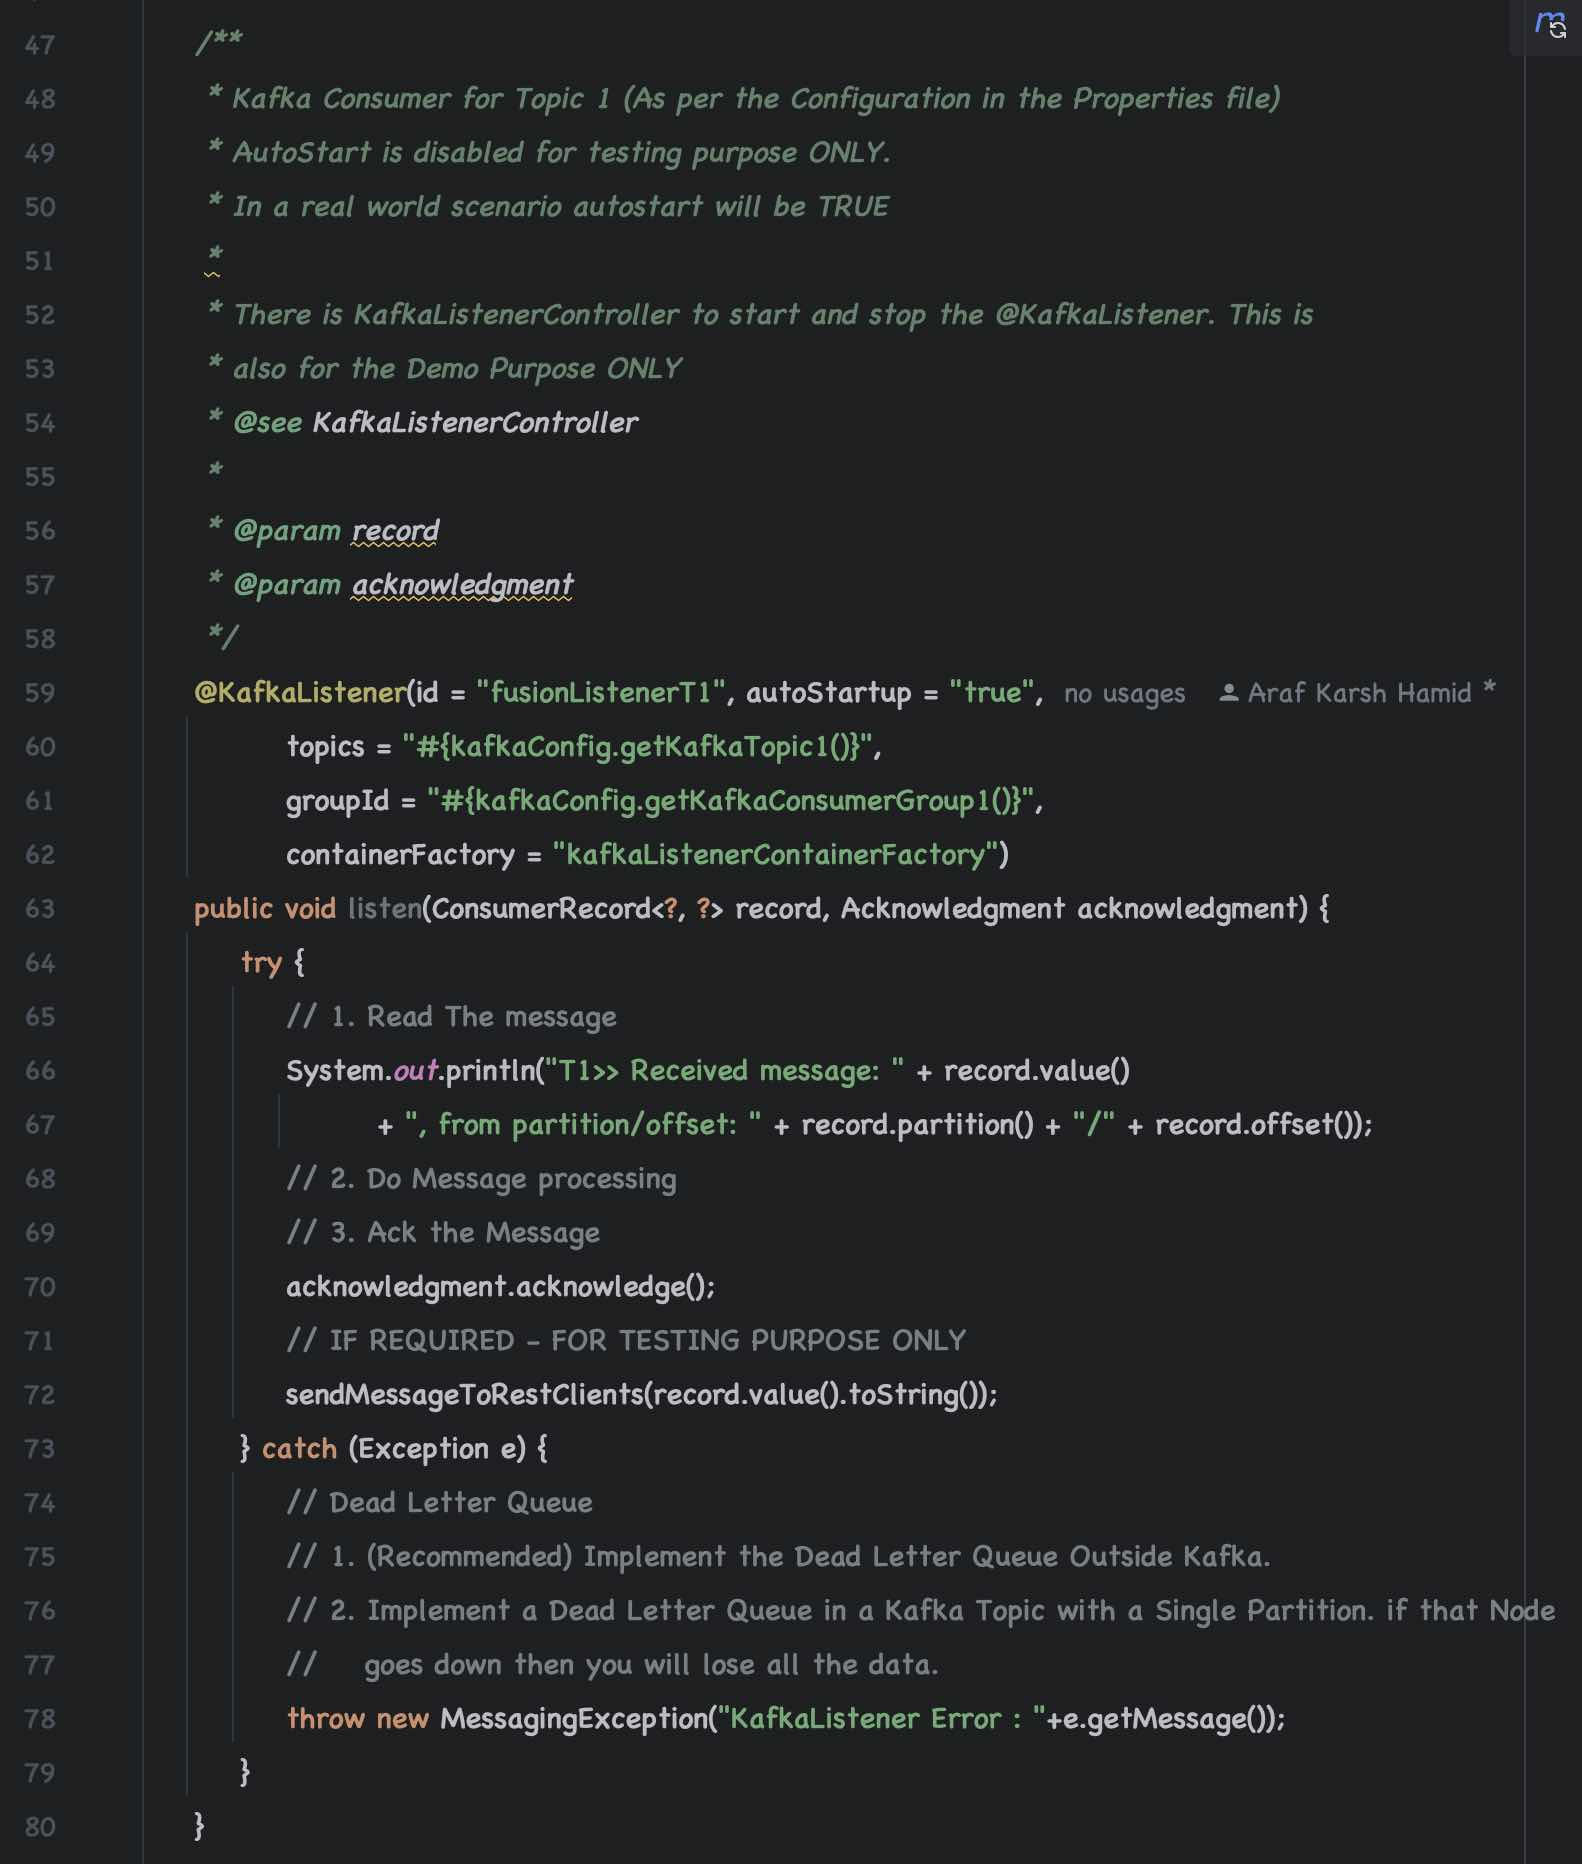
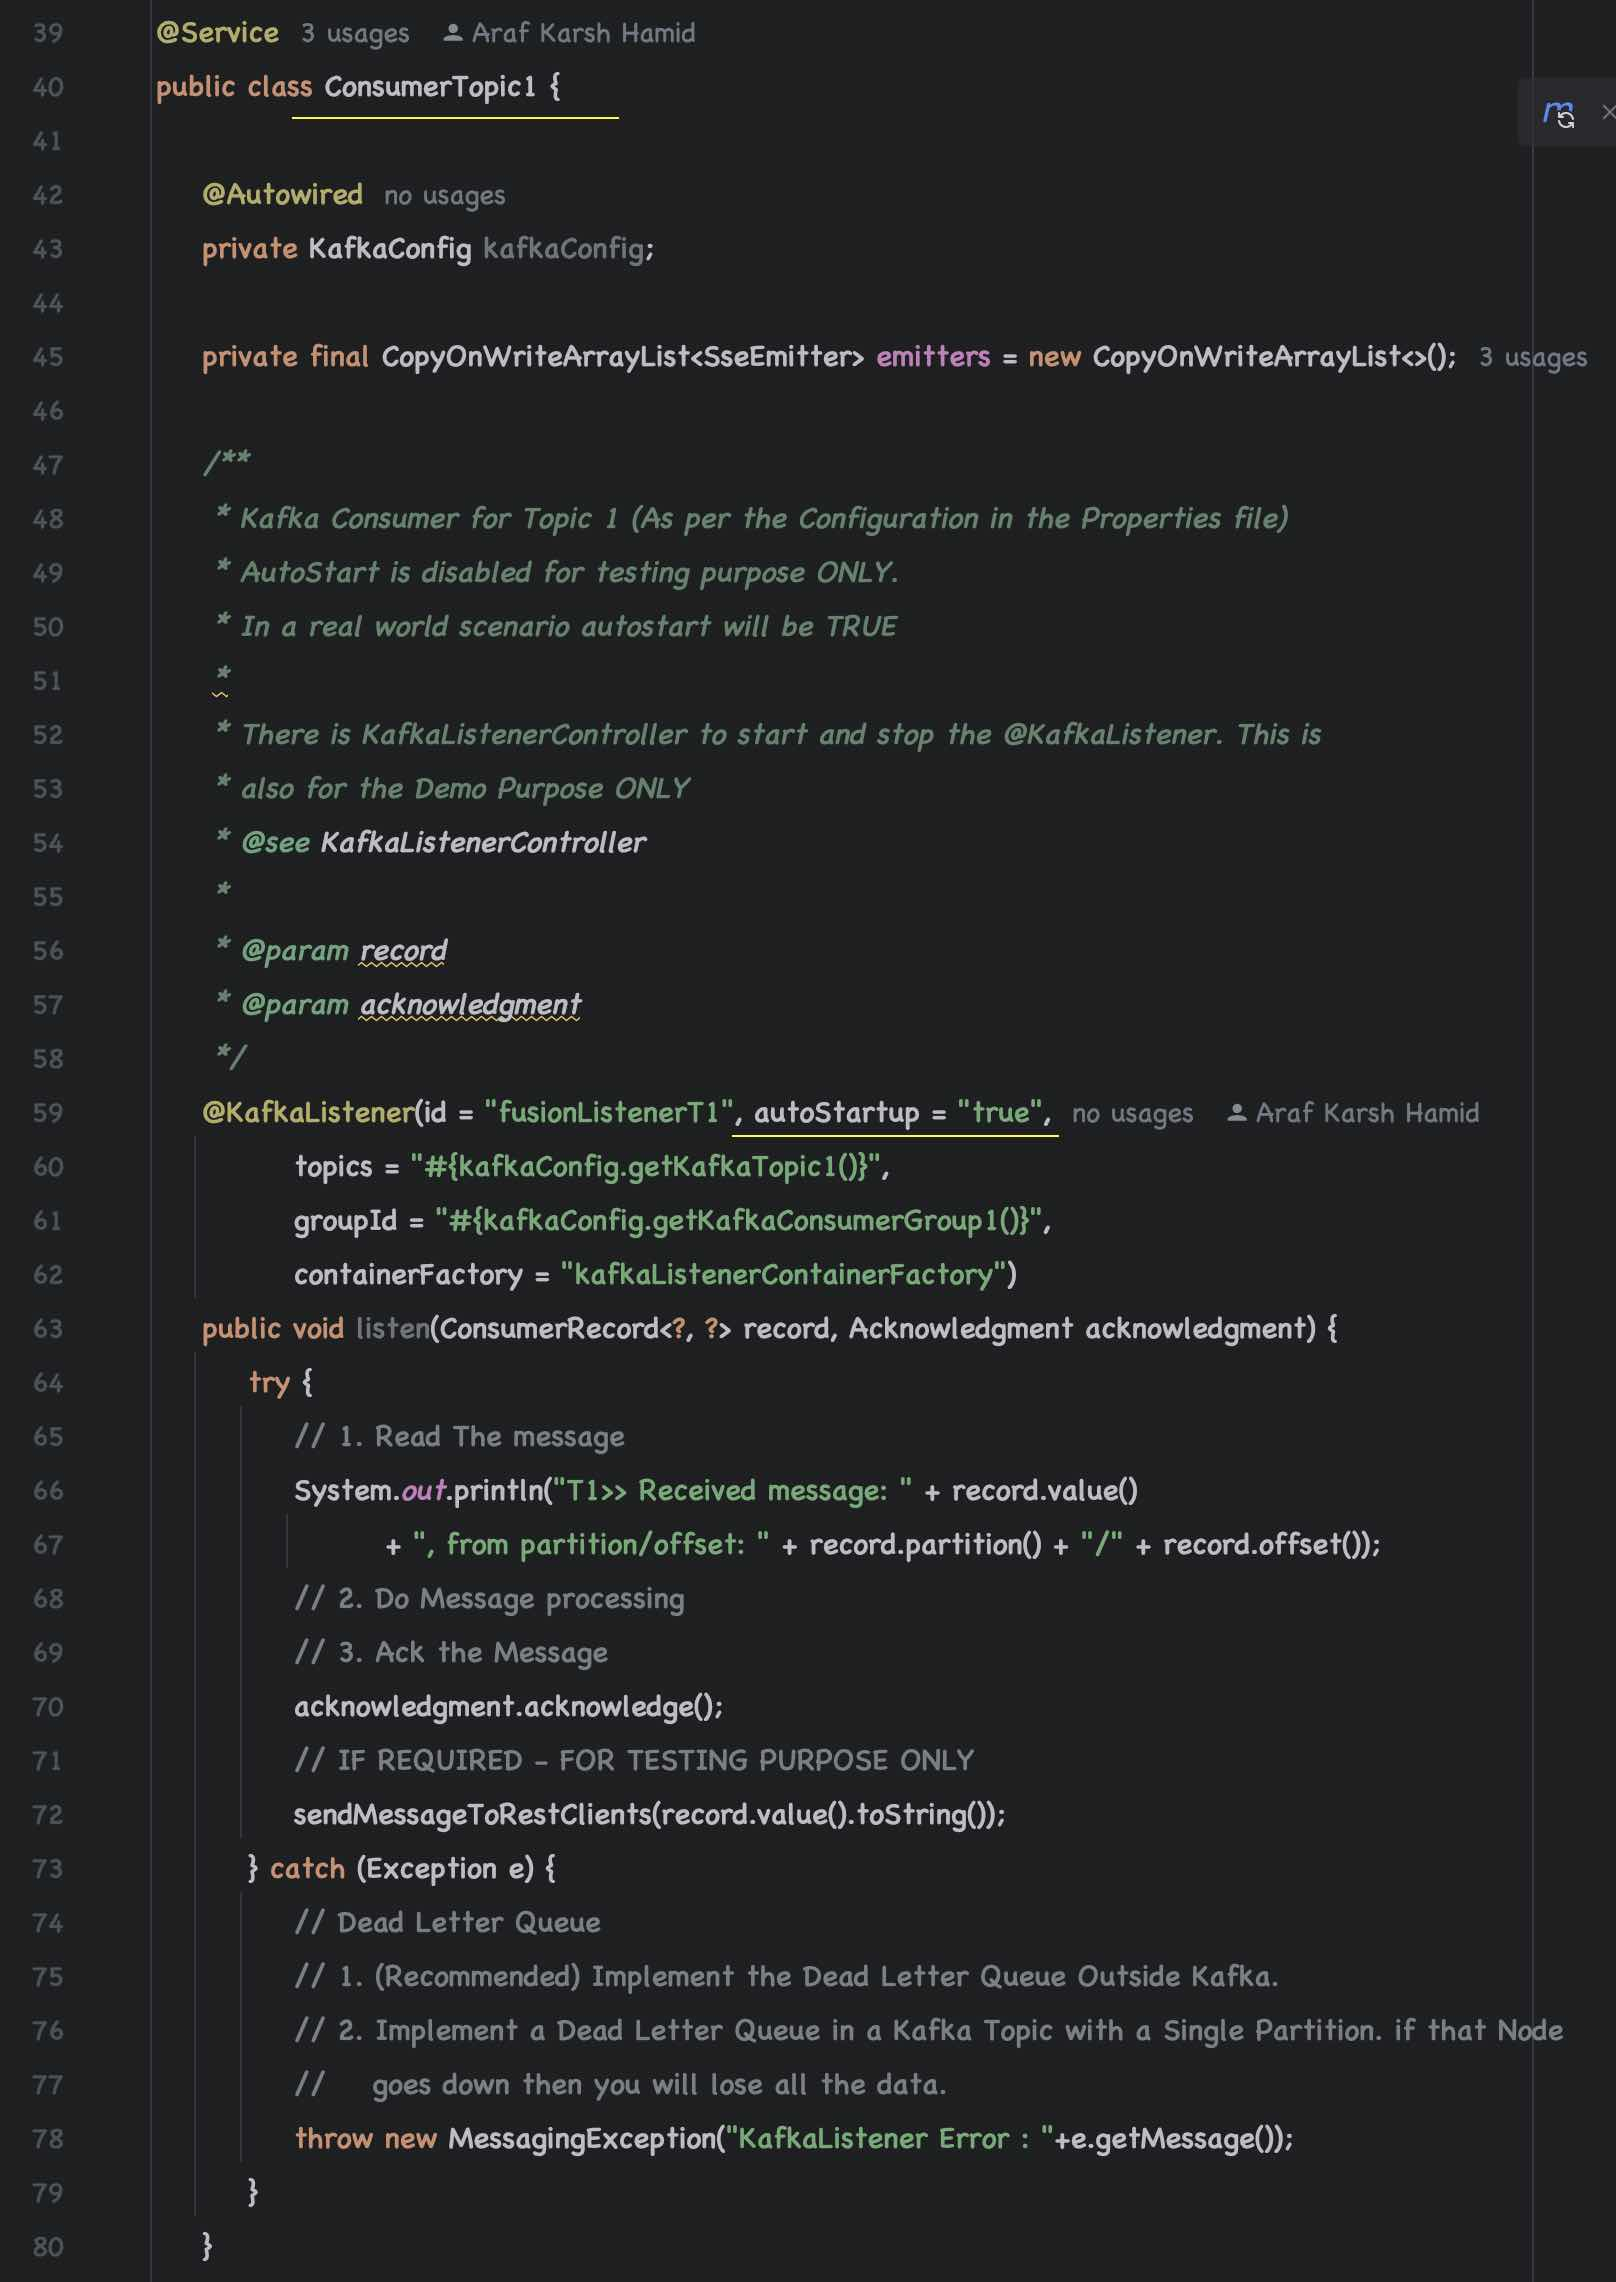
updated Kafka Examples

diff --git a/README.md b/README.md
@@ -112,9 +112,18 @@ echo $KAFKAPATH
 
 ### 2.1 Start Kafka
 
-1. start Zookeeper Server $ kafka-scripts/start-zc.sh
-2. start Kafka Broker $ kafka-scripts/start-ka.sh
-3. start Kafka Connect $ kafka-scripts/start-kc.sh
+1. start Zookeeper Server 
+```
+$ kafka-scripts/start-zc.sh
+```
+2. start Kafka Broker 
+```
+$ kafka-scripts/start-ka.sh
+```
+3. start Kafka Connect
+```
+$ kafka-scripts/start-kc.sh
+```
 
 ### 2.2 Start the Server 
 
@@ -122,7 +131,10 @@ echo $KAFKAPATH
 2. run prod (to test with PostgreSQL Database) Check the application-prod.properties for PostgreSQL Config
 
 ### 2.3 Testing Kafka Examples
-<todo>
+
+Ensure that Kafka Consumers are enabled (autostart = true) For Topic 1 and Topic 2
+![Kafka Consumer](https://raw.githubusercontent.com/arafkarsh/ms-springboot-272-java-8/master/diagrams/kafka/Kafka-Listener-1.jpg)
+
 
 ## 3. State Machine Example
 <todo>
